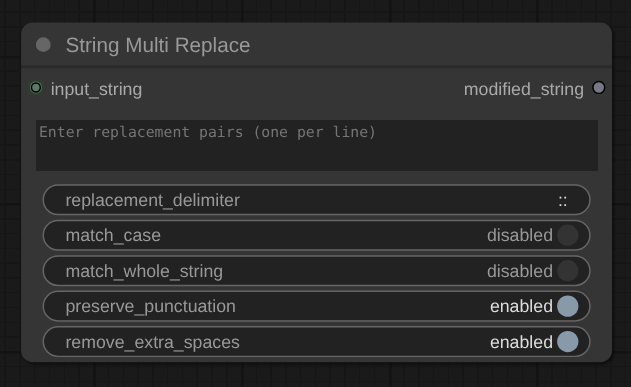
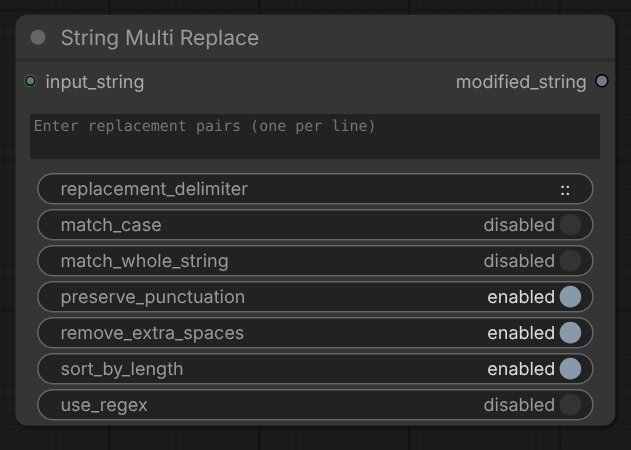
Update README

Changed region(s): [[0.0, 0.031, 0.9937, 0.9612], [0.3011, 0.2791, 0.3613, 0.3101]]

diff --git a/README.md b/README.md
@@ -21,6 +21,8 @@ Simple string manipulation nodes for ComfyUI (strip/remove text strings, search 
 - Case-sensitive/insensitive matching
 - Whole string matching option
 - Preserve punctuation in prompts and special syntax (parentheses, colons, brackets)
+- Optional regex pattern matching in search/replace
+- Configurable replacement order (longest-first or input-order)
 
 ## String Textbox
 A simple multiline textbox for free form text.  
@@ -53,6 +55,8 @@ Replaces text strings with new strings (replace/swap words etc.). Each line shou
 - **`match_whole_string`**: Ensure only exact matches are replaced
 - **`preserve_punctuation`**: Keep punctuation marks adjacent to matched text (default: enabled)
 - **`remove_extra_spaces`**: Clean up extra spaces after replacement
+- **`sort_by_length`**: When enabled, longer search strings are replaced first to prevent substring clobbering. Disable to process pairs in input order, allowing intentional chaining (default: enabled)
+- **`use_regex`**: When enabled, search strings are treated as regex patterns instead of literal text (default: disabled)
 
 ## String Conditional Append
 Conditionally adds strings to the input text only if they're not already present. Useful for ensuring specific keywords or phrases exist in prompts without creating duplicates. Enter multiple strings (one per line) to check and append any that are missing.
